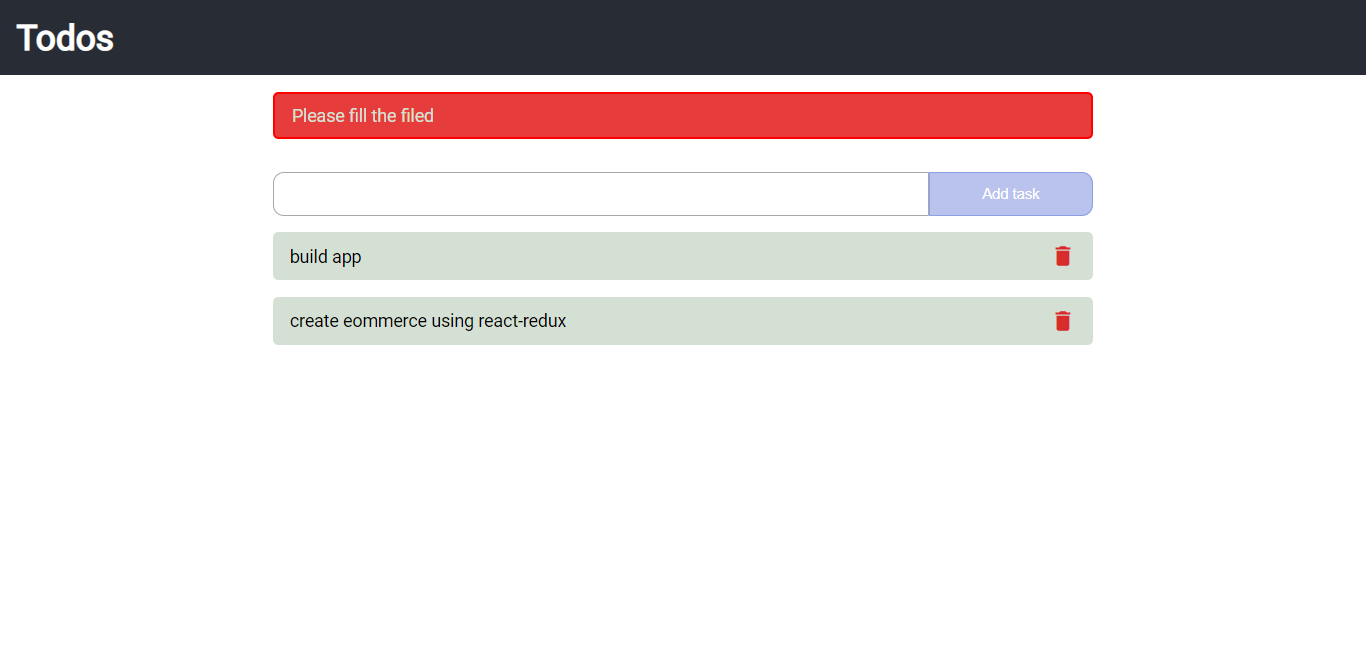
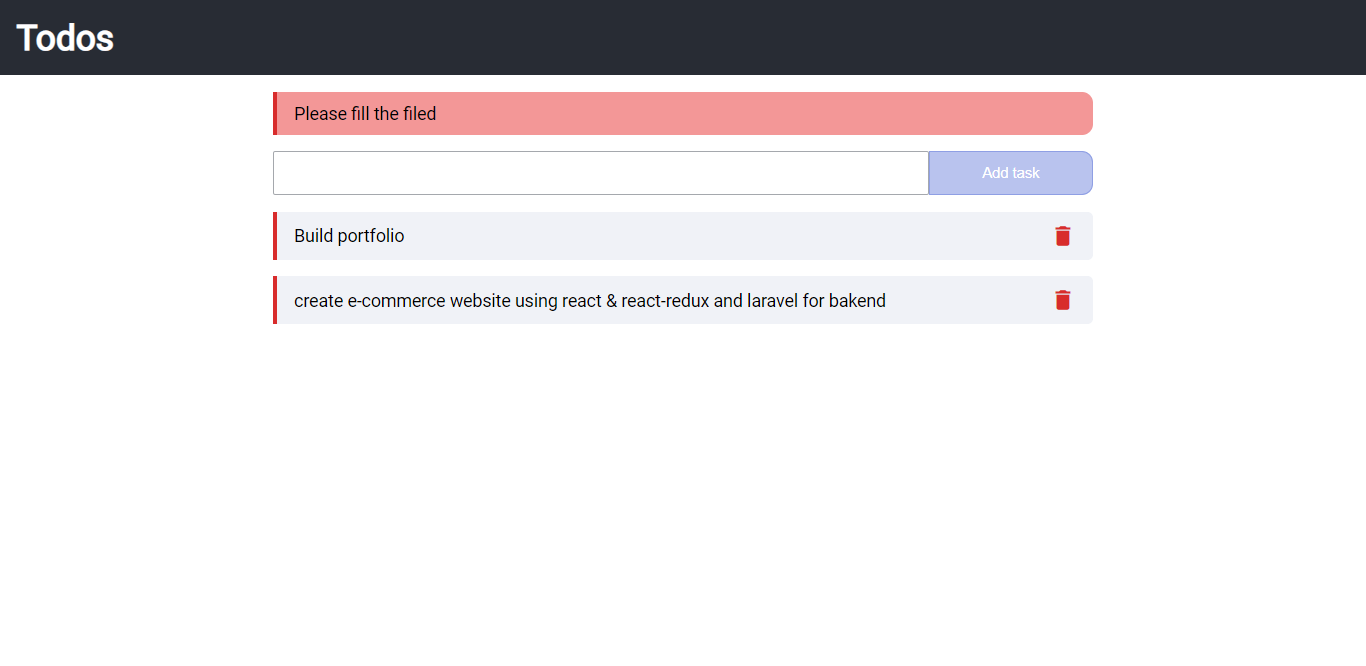
styling

Changed region(s): [[0.1845, 0.1201, 0.7994, 0.5405]]

diff --git a/src/App.css b/src/App.css
@@ -25,7 +25,6 @@ body {
   border: #a5a8ad solid 1px;
   margin-top: 15px;
   padding: 5px 15px;
-  border-radius: 10px 0px 0px 10px;
 }
 h2 {
   margin-top: 15px;
@@ -56,8 +55,9 @@ h2 {
   padding: 10px 15px;
   margin: 15px auto;
   width: 60%;
-  background: #d5e0d5;
-  border-radius: 5px;
+  border-radius: 0px 5px 5px 0px;
+  border-left: #d82c2c 4px solid;
+  background: #f0f2f7;
 }
 .todoCard p {
   color: black;
@@ -69,7 +69,8 @@ h2 {
   cursor: pointer;
 }
 .danger {
-  background: #e73c3c;
-  color: #d5e0d5;
-  border: solid 2px rgb(255, 0, 0);
+  background: #f39797;
+  color: black;
+  margin: 15px auto 0px;
+  border-radius: 0px 10px 10px 0px;
 }

diff --git a/src/components/todos/Todos.js b/src/components/todos/Todos.js
@@ -10,7 +10,7 @@ const Todos = ({ todo: { todos }, getTodos }) => {
   }, []);
   return (
     <div>
-      {todos !== null ? (
+      {todos.length !== 0 ? (
         todos.map((todo) => <TodoItem todo={todo} key={todo.id} />)
       ) : (
         <h2>No todos , please add todos </h2>

diff --git a/src/components/todos/AddTodo.js b/src/components/todos/AddTodo.js
@@ -22,7 +22,7 @@ const AddTodo = ({ addTodo, setError, clearError }) => {
       setError('Please fill the filed');
       setTimeout(() => {
         clearError();
-      }, 3000);
+      }, 100000);
     }
   };
   return (
